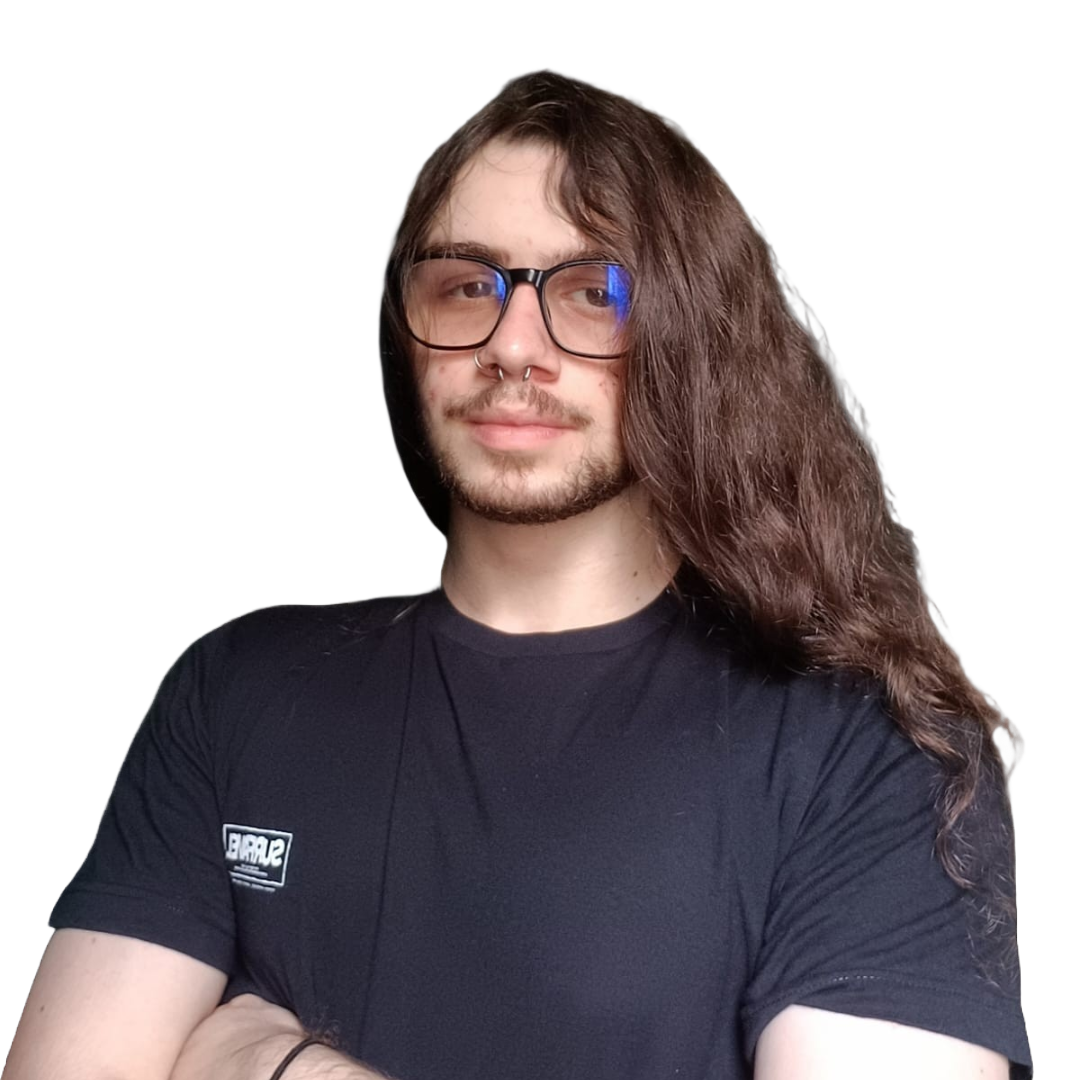
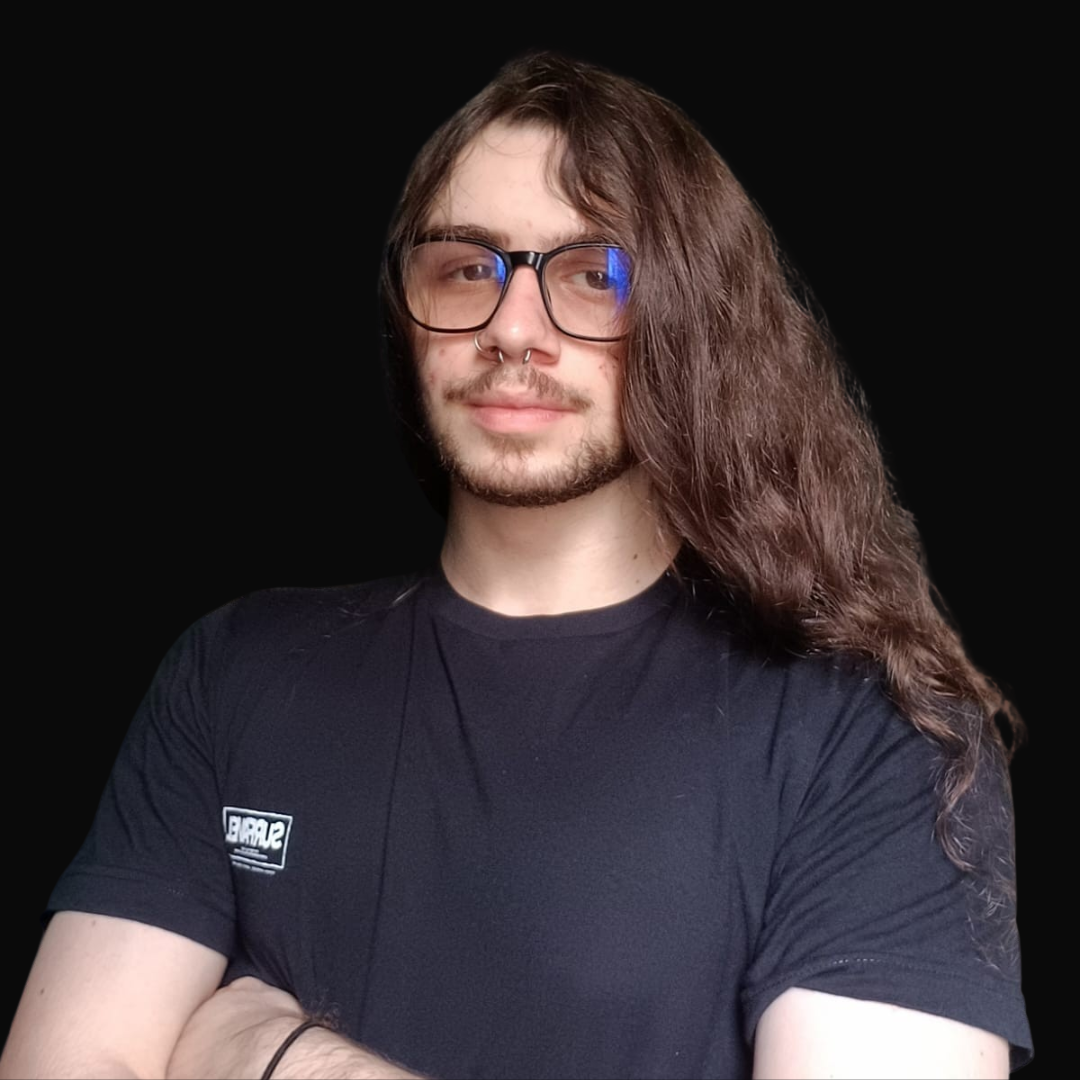
feat: changed image of profile and added logic to change route on  touch

diff --git a/components/utils/ScrollRouter.vue b/components/utils/ScrollRouter.vue
@@ -1,5 +1,10 @@
 <template>
-	<div @wheel="handleScroll" class="h-screen flex overflow-hidden">
+	<div
+		@wheel="handleScroll"
+		@touchstart="handleTouchStart"
+		@touchend="handleTouchEnd"
+		class="h-screen flex overflow-hidden"
+	>
 		<slot />
 	</div>
 </template>
@@ -9,6 +14,12 @@ const route = useRoute()
 const router = useRouter()
 const localePath = useLocalePath()
 let isThrottled = false
+
+// Variables to store touch positions
+let touchStartX = 0
+let touchStartY = 0
+let touchEndX = 0
+let touchEndY = 0
 
 const handleScroll = event => {
 	if (isThrottled) return
@@ -36,6 +47,68 @@ const handleScroll = event => {
 			router.push(nextRoutePath)
 		}
 	} else {
+		if (currentRouteIndex > 0) {
+			isThrottled = true
+			setTimeout(() => {
+				isThrottled = false
+			}, 500)
+
+			let prevRoute = routes[currentRouteIndex - 1]
+
+			if (prevRoute === 'home') prevRoute = 'index'
+
+			const prevRoutePath = localePath(prevRoute)
+			router.push(prevRoutePath)
+		}
+	}
+}
+
+const handleTouchStart = event => {
+	const touch = event.touches[0]
+	touchStartX = touch.clientX
+	touchStartY = touch.clientY
+}
+
+const handleTouchEnd = event => {
+	const touch = event.changedTouches[0]
+	touchEndX = touch.clientX
+	touchEndY = touch.clientY
+
+	handleGesture()
+}
+
+const handleGesture = () => {
+	const deltaX = touchEndX - touchStartX
+	const deltaY = touchEndY - touchStartY
+
+	if (isThrottled) return
+
+	const underscoreIndex = route.name.indexOf('_')
+	let routeName = route.name
+
+	if (underscoreIndex >= 0) {
+		routeName = routeName.substring(0, underscoreIndex)
+	}
+
+	if (routeName === 'index') routeName = 'home'
+
+	const currentRouteIndex = routes.indexOf(routeName)
+
+	// Swipe right or down to go to next route
+	if (deltaX > 50 || deltaY > 50) {
+		if (currentRouteIndex < routes.length - 1) {
+			isThrottled = true
+			setTimeout(() => {
+				isThrottled = false
+			}, 500)
+
+			const nextRoute = routes[currentRouteIndex + 1]
+			const nextRoutePath = localePath(nextRoute)
+			router.push(nextRoutePath)
+		}
+	}
+	// Swipe left or up to go to previous route
+	else if (deltaX < -50 || deltaY < -50) {
 		if (currentRouteIndex > 0) {
 			isThrottled = true
 			setTimeout(() => {

diff --git a/assets/css/tailwind.css b/assets/css/tailwind.css
@@ -25,7 +25,7 @@ body {
 
 @layer base {
 	:root {
-		--background: 0 0% 100%;
+		--background: 0 0% 96.1%;
 		--foreground: 0 0% 3.9%;
 
 		--muted: 0 0% 96.1%;
